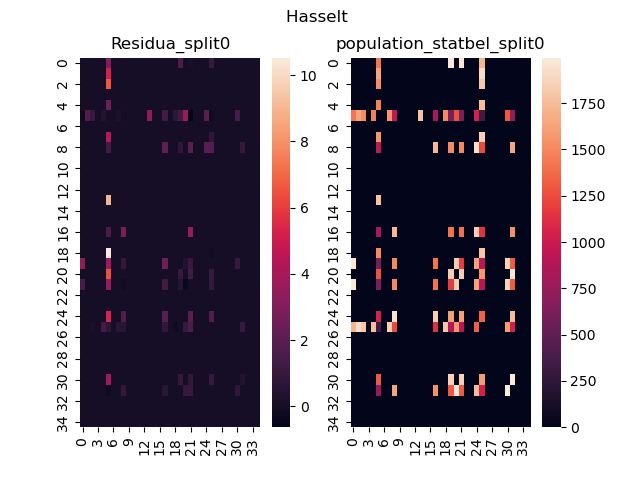
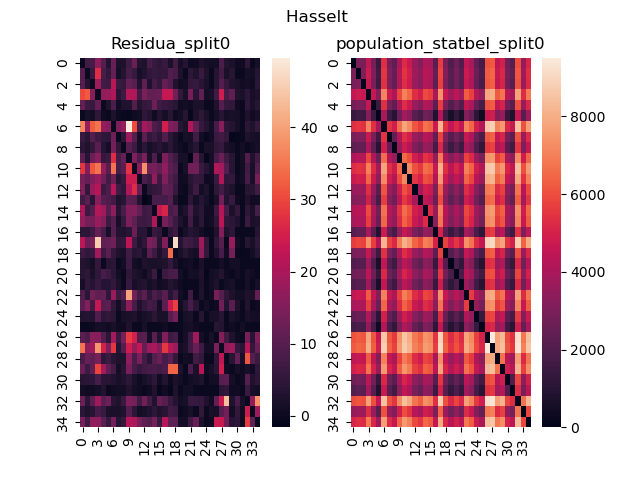
old changes

diff --git a/newCode/newMain.py b/newCode/newMain.py
@@ -1,6 +1,6 @@
-from operational_functions import heatmaps, calculate_gap_RMSE,matrix_to_list, normalize, get_split_matrices, list_to_matrix, visualize_splits, setup_test_case
-from output_functions import bars, equations, scatters, calculate_model, correlation_analyses, gap_bars, gap_bars_sum, compare_with_splits
-from regression import simple_linear_reg, explanatory_linear_regression, split_linear_regression
+from operational_functions import calculate_gap_RMSE, setup_test_case
+from output_functions import bars, equations, scatters, calculate_model, correlation_analyses, gap_bars, gap_bars_sum, compare_with_splits, residua_in_bars, residua_3D_plot
+from regression import simple_linear_reg, explanatory_linear_regression, split_linear_regression, linear_residua_split
 import pathlib
 import pandas as pd 
 import numpy as np
@@ -25,12 +25,13 @@ def main():
                     network_properties[2]: [1000]}
 
     #decide which analysis you want to run
-    run_correlation = True
+    run_correlation = False
     explanatory_analyses = True
     gaps_analysis =  True
     gaps_analysis_sum = True
-    split_analysis = True
-
+    split_analysis = False
+    residua_analysis = True
+    simple_linear_residua = True
     total_gap = {}
     summary = ''
 
@@ -45,6 +46,14 @@ def main():
         # Set up the matrices for this zone and move
         original_od, tomtom_od = setup_test_case(zone, move)
 
+
+
+        if residua_analysis:
+            residua = original_od - tomtom_od
+            residua_in_bars(residua, 'bar_residua_{}'.format(zone), zone)
+            residua_3D_plot(residua, zone)
+            
+
         """ path = str(pathlib.Path(__file__).parent) + '/data/results/'
         pd.DataFrame(np.round(original_od,1)).to_csv(path+"original_{}.csv".format(move))
         pd.DataFrame(tomtom_od).to_csv(path+"tomtom_{}.csv".format(move)) """
@@ -55,7 +64,7 @@ def main():
         # Simple linear regression 
         simple_approx_gap, slope, intercept = simple_linear_reg(original_od, tomtom_od, zone)
 
-        summary += 'SIMPLE LINEAR REGRESSION {}\n\nY = {} * X + {}, with gap = {}\n'.format(zone, np.round(slope[0],3), np.round(intercept,3), simple_approx_gap)
+        summary += 'SIMPLE LINEAR REGRESSION {}\n\nY = {} * X + {}, with gap = {}\n\nSIMPLE LINEAR REGRESSION RESIDUA\n\n'.format(zone, np.round(slope[0],3), np.round(intercept,3), simple_approx_gap)
 
 
 
@@ -83,15 +92,29 @@ def main():
                     correlation_analyses(original_od, tomtom_od, network_property, zone, method)
 
 
-                if  split_analysis and method == 'sum':
-                    approx_gap, string, summary_split, shapes = split_linear_regression(original_od, tomtom_od, zone, network_property, method, fixed = True, fixed_jump = cutoff_values[network_property][0])
+                if  split_analysis and method == 'sum' and network_property == network_properties[0]:
+                    approx_gap, string, summary_split, shapes, _ = split_linear_regression(original_od, tomtom_od, zone, network_property, method, fixed = True, fixed_jump = cutoff_values[network_property][0])
                     #approx_gap, string, summary_split = split_linear_regression(original_od, tomtom_od, zone, fixed = True, fixed_jump = 2)
                     compare_with_splits(shapes, original_od, tomtom_od, network_property, zone)
+                    
                     if  explanatory_analyses:
                         total_gap[network_property][move].append((approx_gap, string))
                     else:
                         total_gap['none'][move].append((approx_gap, string))
-                    summary += summary_split+'\n'
+                    summary += summary_split+'Approx gap after split = {}\n\n'.format(approx_gap)
+
+                if simple_linear_residua and method == 'sum':
+                    approx_gap, string, summary_split, shapes = linear_residua_split(original_od, tomtom_od, network_property, zone, move)
+
+                    if not explanatory_analyses:
+                        total_gap['none'][move].append((approx_gap, 'residua reg. {} splitted'.format(network_property)))
+                    else:
+                        total_gap[network_property][move].append((approx_gap, 'residua reg. {} splitted'.format(network_property)))
+                    summary += summary_split
+                    summary += 'Gap = {}'.format(approx_gap)
+
+
+
 
     # Perform the gap function
     if gaps_analysis:

diff --git a/newCode/regression.py b/newCode/regression.py
@@ -47,10 +47,8 @@ def approx_linear(original_od, tomtom_od, explanatory = [], list_return = False)
                 # model.coef_ = list with the slopes for each matrix (tomtom + explanatory)
         return approx_matrix, np.round(model.coef_,3), round(model.intercept_,3)
 
-
-
 # Perform a simple linear regression between two matrices
-def simple_linear_reg(original_od, tomtom_od, zone, norm = False):
+def simple_linear_reg(original_od, tomtom_od, zone, norm = False, ):
     if norm:
         approx_od, slope, intercept = approx_linear(original_od/np.sum(original_od), tomtom_od/np.sum(tomtom_od)) 
         approx_od = approx_od * np.sum(tomtom_od)
@@ -116,7 +114,7 @@ def split_linear_regression(original_od, tomtom_od, zone,network_property = '', 
         visualize_splits(shapes, zone ,path)
     else: 
         network_property
-        shapes = get_split_fixed(explanatory_od, fixed_size = fixed_jump) if cutoffs == [] else get_split_fixed(tomtom_od, _cutoffs = cutoffs)
+        shapes = get_split_fixed(original_od, fixed_size = fixed_jump) if cutoffs == [] else get_split_fixed(tomtom_od, _cutoffs = cutoffs)
         visualize_splits(shapes, zone ,path)
     approx_matrix = np.zeros(original_od.shape)
     slopes = []
@@ -126,11 +124,14 @@ def split_linear_regression(original_od, tomtom_od, zone,network_property = '', 
         orig_list = matrix_to_list(original_od, shape)
         tomtom_list = matrix_to_list(tomtom_od, shape)
 
-        approx_list , slope, intercept = approx_linear(orig_list, tomtom_list, list_return = True) 
-        slopes.append(slope)
-        intercepts.append(intercept)
-        approx_matrix += list_to_matrix(approx_list, shape)
-        summary += 'Split {} with equations: Y = {} * X + {}\n'.format(idx, np.round(slope[0],3), np.round(intercept,3))
+        
+        if orig_list != [] and tomtom_list != []:
+            approx_list , slope, intercept = approx_linear(orig_list, tomtom_list, list_return = True) 
+            slopes.append(slope)
+            intercepts.append(intercept)
+            approx_matrix += list_to_matrix(approx_list, shape)
+
+            summary += 'Split {} with equations: Y = {} * X + {}\n'.format(idx, np.round(slope[0],3), np.round(intercept,3))
 
 
     #plot the equations
@@ -146,5 +147,33 @@ def split_linear_regression(original_od, tomtom_od, zone,network_property = '', 
     plt.savefig(path+'/linear_equations_split_{}.png'.format(zone))
 
     approx_gap = calculate_gap_RMSE(original_od, approx_matrix)
-    return approx_gap, 'split on {}'.format(network_property), summary, shapes
+    return approx_gap, 'split on {}'.format(network_property), summary, shapes, approx_matrix
 
+# linear regression with the residuals and network property 
+def linear_residua(original_od, tomtom_od, network_property, zone):
+    residua = original_od - tomtom_od
+    explanatory_od = create_OD_from_info(network_property+'_'+zone+'_dictionary')
+    explanatory_od_norm = explanatory_od
+
+    intermediate_od, slope, intercept = approx_linear(residua, explanatory_od_norm)
+    approx_od = intermediate_od + tomtom_od
+
+    approx_gap = calculate_gap_RMSE(original_od, approx_od)
+
+    path = str(pathlib.Path(__file__).parents[1])+'/graphsFromResults/residua/heatmaps/residua_reg_{}'.format(network_property)
+    os.makedirs(path, exist_ok=True)
+
+    heatmaps(original_od, approx_od, zone, 'original OD matrix', 'approx OD matrix', '{} * [nxn] + {}'.format(slope,intercept), fileName = 'oriVSaprox_{}_{}'.format(zone,network_property), path=path)
+
+    return approx_gap, slope, intercept, approx_od
+
+def linear_residua_split(original_od, tomtom_od, network_property, zone, move):
+
+    original_od, tomtom_od = setup_test_case(zone, move)
+    residua = original_od - tomtom_od
+    explanatory_od = create_OD_from_info(network_property+'_'+zone+'_dictionary')
+    _, string, summary_split, shapes, intermediate = split_linear_regression(residua, explanatory_od, zone, fixed = True, fixed_jump = 10)
+    approx_od = intermediate + tomtom_od
+    approx_gap = calculate_gap_RMSE(approx_od, original_od)
+    
+    return approx_gap, string, summary_split, shapes

diff --git a/newCode/output_functions.py b/newCode/output_functions.py
@@ -156,11 +156,10 @@ def gap_bars(gaps, moves, properties):
 
         offset = [start + x * width for x in range(len(gaps[property][moves[0]]))]
         x_original = [x+offset[0] for x in range(len(moves))]
-
         _,ax1 = plt.subplots()
 
         ax1.bar(x_original, orig_gap, width, label = 'Original', color = colors[0])
-
+        j=0
         for i  in range(1,len(gaps[property][moves[0]])):
             gap_list = []
             for idx, move in enumerate(moves):
@@ -168,7 +167,8 @@ def gap_bars(gaps, moves, properties):
                 legend_string = legend
                 gap_list.append(gap)    
             x_gap = [x+offset[i] for x in range(len(gap_list))]
-            ax1.bar(x_gap, gap_list, width, label = legend_string,color = colors[i])
+            j += -len(colors)+1 if i==len(colors) else 1
+            ax1.bar(x_gap, gap_list, width, label = legend_string,color = colors[j])
         
         ax1.set_xticks(range(len(moves)), moves)
         ax1.set_title('Bar charts of the absolute gaps from the different zones.')
@@ -286,3 +286,75 @@ def compare_with_splits(shapes, origin_od, tomtom_od, network_property, zone):
 
     for idx, shape in enumerate(shapes): 
         heatmaps(explanatory_od*shape, residua*shape, zone, '{}_split{}'.format(network_property, idx), 'Residua_split{}'.format(idx),fileName='{}_split_{}'.format(network_property, idx),path=path1)
+
+def residua_in_bars(residua, fileName, zone):
+    path = str(pathlib.Path(__file__).parents[1]) + '/graphsFromResults/Correlation_analyses/bar_shapes_dist'
+    os.makedirs(path, exist_ok=True)
+
+    slices = 10
+
+    max_v = np.max(residua)
+    min_v = np.min(residua)
+
+    res_range = max_v - min_v
+    offset = res_range/slices
+
+    cutoffs = [min_v + i*offset for i in range(slices+1)]
+    cutoffs_adj = cutoffs
+    cutoffs_adj[0] -= 0.1
+    cutoffs_adj.append(0)
+    cutoffs_adj = np.sort(cutoffs_adj)
+
+    bar_values = np.zeros(len(cutoffs_adj)-1)
+
+    for i in range(len(residua)):
+        for j in range(len(residua)):
+            for k in range(len(cutoffs_adj)):
+                if cutoffs_adj[k] < residua[i,j] <= cutoffs_adj[k+1]:
+                    bar_values[k] += 1
+    x = [x for x in range(len(cutoffs_adj)-1)]
+
+    fig,ax = plt.subplots(figsize=(15, 10))
+    plt.xticks(fontsize=10)
+    fig.tight_layout()
+    ax.bar(x, bar_values, width = 0.9)
+    xticks = ['[{},{}]'.format(round(cutoffs_adj[i],1),round(cutoffs_adj[i+1],1)) for i in range(len(cutoffs_adj)-1)]
+    ax.set_xticks(x,xticks)
+    ax.set_xlabel('lower bound')
+    ax.set_title('distribution plot for residua {}'.format(zone))
+    plt.savefig(path+'/{}.png'.format(fileName))
+
+def residua_3D_plot(residua, zone):
+    fig = plt.figure()
+    ax = plt.axes(projection = "3d")
+    
+    origins = [x for x in range(len(residua))]
+    data = residua
+    destinations = origins
+    
+    numOfCols = len(residua)
+    numOfRows = len(residua)
+    
+    xpos = np.arange(0, numOfCols, 1)
+    ypos = np.arange(0, numOfRows, 1)
+    xpos, ypos = np.meshgrid(xpos + 0.5, ypos + 0.5)
+    
+    xpos = xpos.flatten()
+    ypos = ypos.flatten()
+    zpos = np.zeros(numOfCols * numOfRows)
+    
+    dx = np.ones(numOfRows * numOfCols) * 0.5
+    dy = np.ones(numOfCols * numOfRows) * 0.5
+    dz = data.flatten()
+    
+    ax.bar3d(xpos, ypos, zpos, dx, dy, dz)
+    ax.set_xticklabels(origins)
+    ax.set_yticklabels(destinations)
+    
+    ax.set_xlabel('origin')
+    ax.set_ylabel('destination')
+    ax.set_zlabel('residua')
+    ax.set_title('3D plot of residua zone {}'.format(zone))
+    path = str(pathlib.Path(__file__).parents[1])+'/graphsFromResults/3D'
+    os.makedirs(path, exist_ok=True)
+    plt.savefig(path + '/3D_plot_{}.png'.format(zone))

diff --git a/newCode/operational_functions.py b/newCode/operational_functions.py
@@ -9,7 +9,8 @@ import seaborn as sns
 from dyntapy.demand_data import od_matrix_from_dataframes
 import geopandas as gpd
 import os
-from sklearn.linear_model import LinearRegression
+from sklearn.linear_model import LinearRegression 
+from math import ceil, floor
 
 
 def heatmaps(matrix1, matrix2, zone, name1, name2, addiTitle='' , fileName='', path = ''):
@@ -89,6 +90,7 @@ def calculate_gap(matrix1, matrix2):
     # input = squared matrix and optional the shape matrix (so only relevant elements in the list)
     # returns the list  
 def matrix_to_list(matrix, shape = []):
+
     if shape == []:
         return np.array(matrix.reshape([len(matrix)**2,]))
     else:
@@ -96,8 +98,10 @@ def matrix_to_list(matrix, shape = []):
         for i in range(len(shape)):
             for j in range(len(shape)):
                 if shape[i,j] == 1:
+
                     list.append(matrix[i,j])
         return np.array(list)
+        
 
 # function to make a matrix from the list
     # input = list (made of squared matrix) + shape matrix (only put back the relevant elements)
@@ -160,17 +164,16 @@ def get_split_matrices(matrix, slices: int = -1, cutoffs = []):
 # get a split on with a fixed size jump 
 def get_split_fixed(matrix, fixed_size = 0, _cutoffs = []):
 
-    min = np.min(matrix)
-    max = np.max(matrix)
+    min = floor(np.min(matrix))
+    max = ceil(np.max(matrix))
     
-    
-    extra = 0 if (fixed_size ==0 or max%fixed_size) == 0 else 1
+    extra = 0 if (fixed_size ==0 or max%fixed_size == 0) else 1
     slices = int((max//fixed_size) + extra) if fixed_size != 0 else len(_cutoffs)
-    cutoffs = [x*fixed_size for x in range(slices + 1)] if _cutoffs == [] else _cutoffs
-    print(cutoffs)
+    cutoffs = [x*fixed_size + min for x in range(slices + 1)] if _cutoffs == [] else _cutoffs
 
     shapes = []
-    for k in range(slices-1):
+    ones = 0
+    for k in range(slices):
         shape = np.zeros(matrix.shape)
         lower = cutoffs[k]
         upper = cutoffs[k+1]
@@ -179,6 +182,7 @@ def get_split_fixed(matrix, fixed_size = 0, _cutoffs = []):
                 if lower <= matrix[i,j] < upper:
                     shape[i,j] += 1
         shapes.append(shape)
+        ones += np.sum(shape)
     return shapes
 
 
@@ -225,5 +229,6 @@ def calculate_gap_RMSE(matrix1, matrix2):
             if i != j:
                 gap += sqrt((1/matrix1.size)*(matrix1[i, j] - matrix2[i, j])**2)
     return gap
+
 
 
